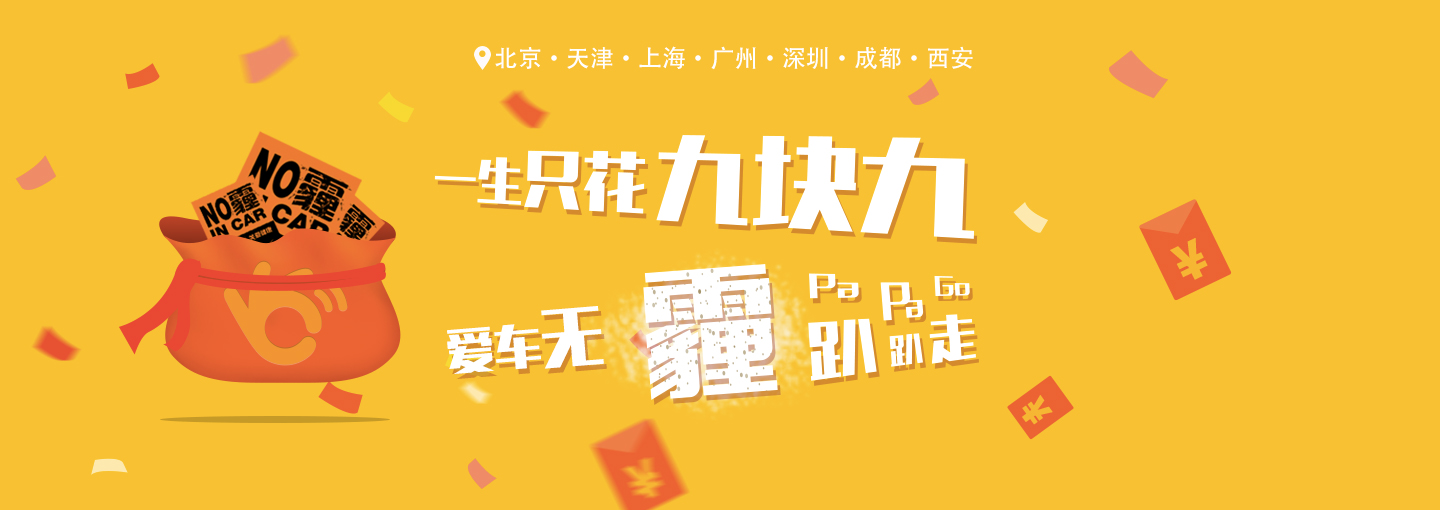
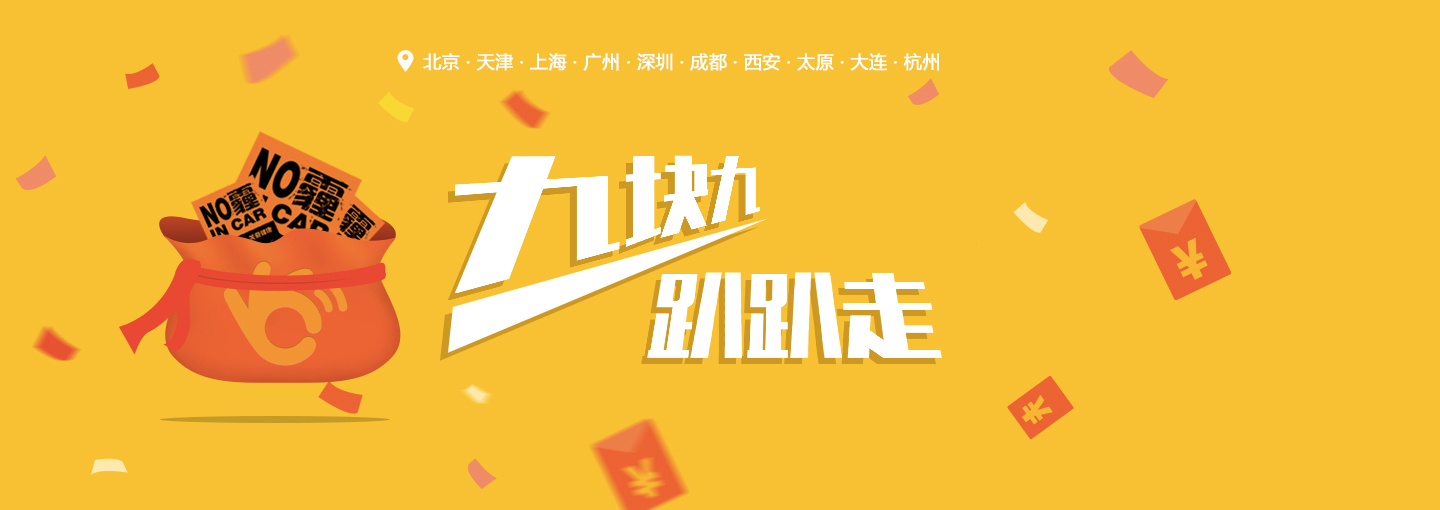
增加杭州，修改大保养介绍说明,修改头图

Changed region(s): [[0.2812, 0.2647, 0.6875, 0.8235], [0.2812, 0.0882, 0.6875, 0.1471]]

diff --git a/app/assets/stylesheets/application.css.scss b/app/assets/stylesheets/application.css.scss
@@ -198,7 +198,7 @@ header.navbar{
     float: left;
     width: 25%;
     margin: 20px 0;
-    color: #eee;
+    color: #B2B2B2;
     &:last-child{
       border: 0;
     }

diff --git a/app/assets/stylesheets/home.css.scss b/app/assets/stylesheets/home.css.scss
@@ -443,6 +443,7 @@ $bac: #fff;
 		img{
 			width: 46%;
 			margin-right: 4%;
+      margin-top: 50px;
 		}
 		li{
 			overflow: hidden;
